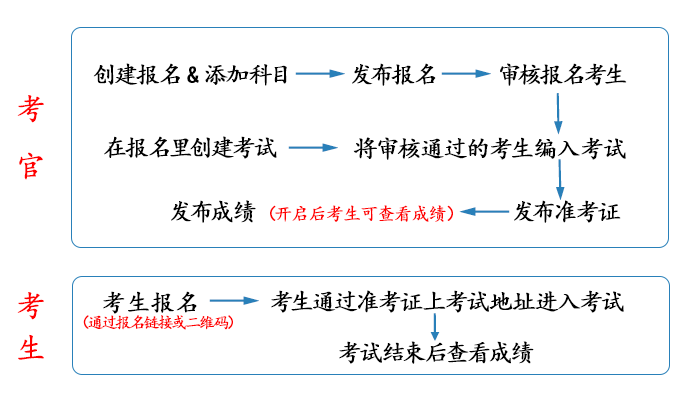
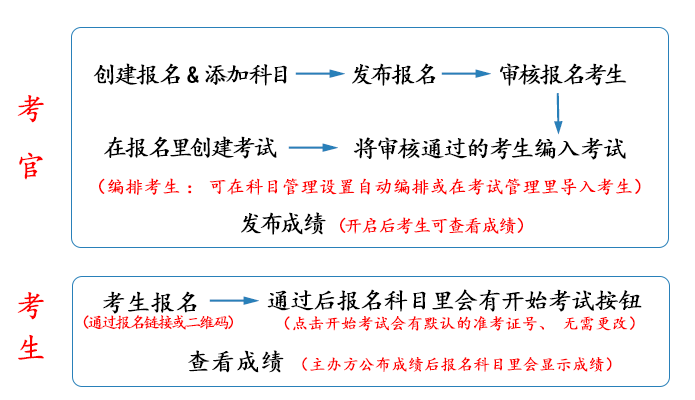
enroll

diff --git a/docs/source/enroll.rst b/docs/source/enroll.rst
@@ -30,7 +30,7 @@
 
 .. image:: _static/11-4.png
 
-**注意：** 发布报名后，考生才可以打开考试地址链接进行报名
+**注意：** 发布报名后，考生才可以打开报名链接进行报名
 
 编排考生
 ----------------------
@@ -80,7 +80,7 @@
 
 - 发布报名：开启发布报名之后，考生即可通过报名地址打开该场报名进行报名（未发布则没有）。
 
-- 发布准考证：发布准考证后已报名该场考试的考生即可查看个人准考准，准考证包含有该场报名的考试地址。
+- 发布准考证：发布准考证后已报名该场考试的考生即可查看个人准考证（线上考试不需要准考证）。
 
 - 发布成绩：开启发布成绩之后考生考后可知道自己的成绩，未开启则不显示。
 
